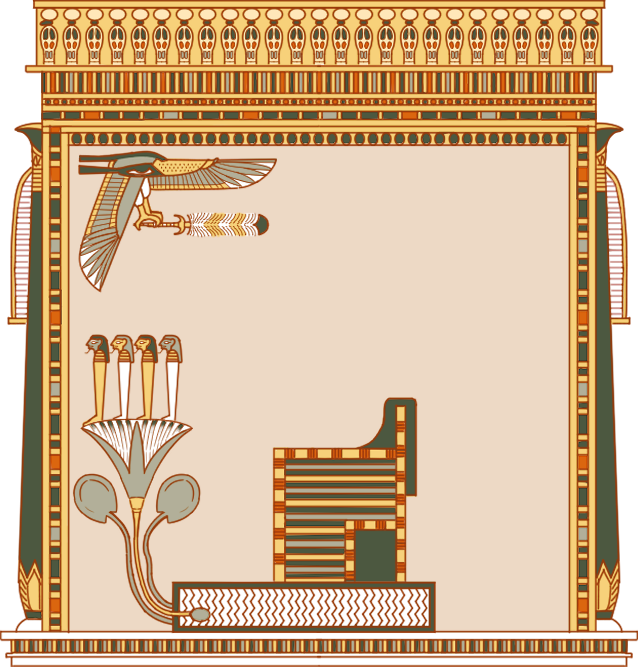
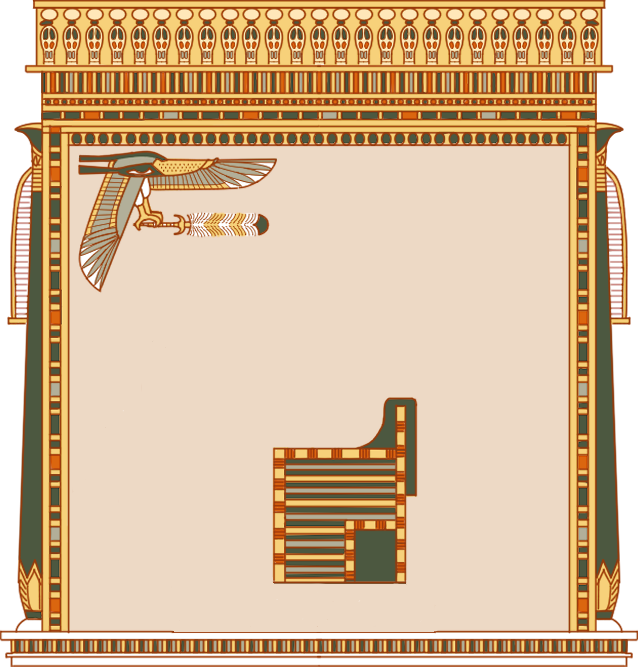
법정 완성

Changed region(s): [[0.0893, 0.4798, 0.685, 0.9595]]

diff --git a/src/main/webapp/resources/js/interaction/ch07/info_tap_3.js b/src/main/webapp/resources/js/interaction/ch07/info_tap_3.js
@@ -1,40 +1,48 @@
-var Anubis = document.querySelector('#interact .character:nth-of-type(8)');
+var Anubis = document.querySelector('#interact .character:nth-of-type(4)');
 
 var obj = [];
-obj[0] = document.querySelector('#interact .character:nth-of-type(9)');
-obj[1] = document.querySelector('#interact .character:nth-of-type(10)');
-obj[2] = document.querySelector('#interact .character:nth-of-type(11)');
-obj[3] = document.querySelector('#interact .bgObj:nth-of-type(3)');
+obj[0] = document.querySelector('#interact .character:nth-of-type(5)');
+obj[1] = document.querySelector('#interact .character:nth-of-type(6)');
+obj[2] = document.querySelector('#interact .character:nth-of-type(7)');
+obj[3] = document.querySelector('#interact .bgObj:nth-of-type(6)');
+obj[4] = document.querySelector('#interact .bgObj:nth-of-type(7)');
+obj[5] = document.querySelector('#horus');
+obj[6] = document.querySelector('#men');
 
 var motion = [];
-motion[0] = "resources/webp/ch07/-.webp";
-motion[1] = "resources/webp/ch07/-.webp";
-motion[2] = "resources/webp/ch07/-.webp";
-motion[3] = "resources/webp/ch07/-.webp";
+motion[0] = "resources/webp/ch07/osiris_motion.webp";
+motion[1] = "resources/webp/ch07/nephthys_motion.webp";
+motion[2] = "resources/webp/ch07/isis_motion.webp";
+motion[3] = "resources/webp/ch07/lotus_motion.webp";
+motion[4] = "resources/webp/ch07/statue_motion.webp";
 
 var webp = [];
-webp[0] = "resources/webp/ch07/-.webp";
-webp[1] = "resources/webp/ch07/-.webp";
-webp[2] = "resources/webp/ch07/-.webp";
-webp[3] = "resources/webp/ch07/-.webp";
+webp[0] = "resources/webp/ch07/osiris.webp";
+webp[1] = "resources/webp/ch07/nephthys.webp";
+webp[2] = "resources/webp/ch07/isis.webp";
+webp[3] = "resources/webp/ch07/lotus.webp";
+webp[4] = "resources/webp/ch07/statue.webp";
+webp[5] = "resources/webp/ch07/horus2.webp";
+webp[6] = "resources/webp/ch07/men.webp";
 
 var png = [];
-png[0] = "resources/webp/ch07/-.png";
-png[1] = "resources/webp/ch07/-.png";
-png[2] = "resources/webp/ch07/-.png";
-png[3] = "resources/webp/ch07/-.png";
+png[0] = "resources/webp/ch07/osiris.png";
+png[1] = "resources/webp/ch07/nephthys.png";
+png[2] = "resources/webp/ch07/isis.png";
+png[3] = "resources/webp/ch07/lotus.png";
+png[4] = "resources/webp/ch07/statue.png";
+png[5] = "resources/webp/ch07/horus2.png";
+png[6] = "resources/webp/ch07/men.png";
 
 document.querySelector('.close').onclick = function() { hide_info(); info_close(); }
 
 function pause(index) {
-	for(var i = 0; i < 8; i++) {
+	for(var i = 0; i < 7; i++) {
 		if(i != index) obj[i].src = png[i];
 	}
-	if(index == 0) obj[4].style.display = "none";
 }
 function play() {
-	if(obj[4].style.display == "none") obj[4].style.display = "block";
-	for(var i = 0; i < 8; i++) {
+	for(var i = 0; i < 7; i++) {
 		obj[i].src = webp[i];
 	}
 }
@@ -48,20 +56,23 @@ function tap_info(e, i) {
 	else visited = true;
 	
 	e.id = 'visited';
-	if(true) {
-		show_info(i);
-	}
-	else {
-		pause();
+
+	pause();
+
+	e.src = motion[i-7];
 	
-		e.src = motion[i];
-		
-		const bg = document.querySelector(".info_back");
-		bg.style.display = "block";
-		bg.style.opacity = "0"
-		
-		setTimeout(function() { show_info(i); }, 3000);
-	}
+	const bg = document.querySelector(".info_back");
+	bg.style.display = "block";
+	bg.style.opacity = "0"
+	
+	var time;
+	if(i-7 == 0) time = 3600;
+	else if(i-7 == 1) time = 2400;
+	else if(i-7 == 2) time = 2400;
+	else if(i-7 == 3) time = 1950;
+	else if(i-7 == 4) time = 1750;
+	setTimeout(function() { show_info(i); }, time);
+	
 	
 	if(visited == false) {
 		info_total--;

diff --git a/src/main/webapp/resources/css/interaction/ch07/ch07_3.css b/src/main/webapp/resources/css/interaction/ch07/ch07_3.css
@@ -22,51 +22,85 @@
 }
 
 /* 배경 오트젝트 */
-#interact .bgObj {
+#interact .bg .bgObj {
 	z-index: 2;
 	bottom: 28.05%;
 }
-#interact .bgobj:nth-of-type(3) {
-	width: 44.89%;
-	height: 07.03%;
+#interact .bg .bgobj:nth-of-type(1) {
+	height: 06.29%;
+	bottom: 28%;
 	left: 7%;
-	z-index: 3;
+}
+#interact .bg .bgobj:nth-of-type(2) {
+	height: 07.22%;
+	bottom: 28%;
+	left: 39%;
+}
+#interact .bg .bgobj:nth-of-type(3) {
+	height: 05.74%;
+	bottom: 28%;
+	left: 46%;
 }
 #interact .bgobj:nth-of-type(4) {
 	height: 24.62%;
 	left: 50%; transform: translate(-6vh, 0);
+	z-index: 1;
 }
 #interact .bgobj:nth-of-type(5) {
 	height: 61.75%;
 	right: 15vh;
 }
 #interact .bgobj:nth-of-type(6) {
-	display: none;
+	height: 20.92vh;
+	right: 33.5vh;
+	bottom: 31%;
 }
-
+#interact .bgobj:nth-of-type(7) {
+	height: 11.20%;
+	right: 56.5vh;
+	bottom: 50.5%;
+}
 /* 캐릭터 */
 #interact .character {
-	bottom: 28.05%;
+	bottom: 27.5%;
 	z-index: 3;
 }
-#interact .character:nth-of-type(7) {
+#interact .character:nth-of-type(3) {
 	height: 44.90%;
 	left: 10%;
 }
-#interact .character:nth-of-type(8) {
+#interact .character:nth-of-type(4) {
 	height: 53.51%;
 	left: 20%;
 }
-#interact .character:nth-of-type(9) {
+#interact .character:nth-of-type(5) {
 	height: 40.64%;
 	right: 32vh;
 	bottom: 35.2%;
 }
-#interact .character:nth-of-type(10) {
+#interact .character:nth-of-type(6) {
 	height: 49.35%;
 	right: 18vh;
 }
-#interact .character:nth-of-type(11) {
+#interact .character:nth-of-type(7) {
 	height: 49.16%;
 	right: 10vh;
+}
+
+#arc {
+	display: none;
+	z-index: 3;
+	height: 13.33%;
+	top: 34%;
+	left: 17%;
+	animation: fall 4s;
+}
+
+@keyframes walk {
+	0% { transform: translate(-100%, 0%);}
+	100% { transform: translate(0, 0); }
+}
+@keyframes fall {
+	0% { top: -10%; }
+	100% { top: 34%; }
 }

diff --git a/src/main/webapp/resources/js/interaction/ch07/info_tap_0.js b/src/main/webapp/resources/js/interaction/ch07/info_tap_0.js
@@ -48,10 +48,8 @@ function pause(index) {
 	for(var i = 0; i < 8; i++) {
 		if(i != index) obj[i].src = png[i];
 	}
-	if(index == 0) obj[4].style.display = "none";
 }
 function play() {
-	if(obj[4].style.display == "none") obj[4].style.display = "block";
 	for(var i = 0; i < 8; i++) {
 		obj[i].src = webp[i];
 	}
@@ -70,6 +68,7 @@ function tap_info(e, i) {
 	pause();
 
 	e.src = motion[i];
+	if(i == 0) obj[4].src = "resources/webp/ch07/feather_motion2.webp";
 	
 	const bg = document.querySelector(".info_back");
 	bg.style.display = "block";

diff --git a/src/main/webapp/resources/css/interaction/ch07/ch07_0.css b/src/main/webapp/resources/css/interaction/ch07/ch07_0.css
@@ -54,13 +54,13 @@
 }
 #interact .bg .bgobj:nth-of-type(5) {
 	height: 37.40%;
-	bottom: 28%;
+	bottom: 27.5%;
 	left: 30vh;
 }
 #interact .bg .bgobj:nth-of-type(6) {
-	height: 06.85%;
-	bottom: 35.5%;
-	left: 73vh;
+	height: 09.72%;
+	bottom: 34.5%;
+	left: 71.7vh;
 	z-index: 4;
 }
 
